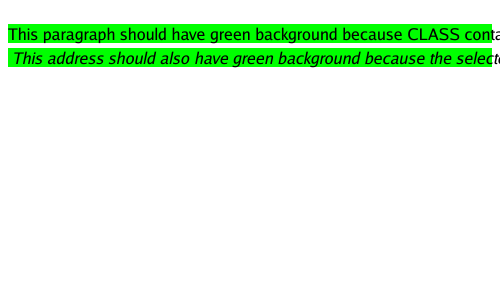
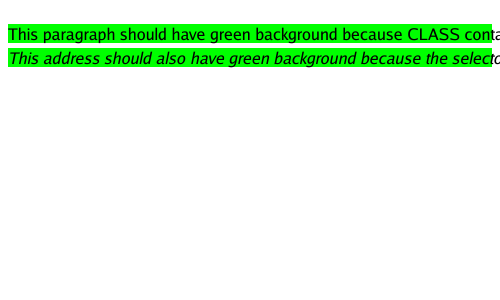
Add css3-modsel-9
1. This fixes a bug in text rendering where newlines would cause spaces at the front of text blocks
2. Changes p handling, incomplete still but able to handle breaks inline and draw backgrounds for taller text
3. space between vertical components is likely insufficient still
4. height of drawn backgrounds is likely insufficient still

Changed region(s): [[0.0, 0.15, 1.0, 0.24]]

diff --git a/html.go b/html.go
@@ -328,15 +328,35 @@ func drawNode(node *ParsedNode, sp *render.Sprite, drawzone floatgeom.Rect2) (he
 			drawzone.Min = drawzone.Min.Add(floatgeom.Point2{float64(bds.Dx()), 0})
 		}
 	case "p":
-		if node.FirstChild != nil {
-			text := node.FirstChild.Raw.Data
-			rText, textSize, bds := formatTextAsSprite(node, drawzone, 16.0, text)
-			textVBuffer := textSize / 5 // todo: where is this from?
-			// todo: is this the background of p or the background of the text content child?
-			drawBackground(node, sp, drawzone, textSize+textVBuffer, math.MaxFloat64)
-			draw.Draw(sp.GetRGBA(), bds, rText.GetRGBA(), image.Point{}, draw.Over)
-			drawzone.Min = drawzone.Min.Add(floatgeom.Point2{0, textVBuffer + float64(bds.Dy())})
+		nextChild := node.FirstChild
+		texts := []string{""}
+		textIndex := 0
+		for nextChild != nil {
+			switch nextChild.Raw.Type {
+			case html.TextNode:
+				text := nextChild.Raw.Data
+				texts[textIndex] += text
+			default:
+				if nextChild.Tag == "br" {
+					textIndex++
+					texts = append(texts, "")
+				}
+			}
+			nextChild = nextChild.NextSibling
 		}
+		var textVBuffer float64
+		for i, text := range texts {
+			rText, textSize, bds := formatTextAsSprite(node, drawzone, 16.0, text)
+			textVBuffer = textSize / 5 // todo: where is this from?
+			// todo: is this the background of p or the background of the text content child?
+			if i == 0 {
+				drawBackground(node, sp, drawzone, (textSize+textVBuffer)*float64(len(texts)), math.MaxFloat64)
+			}
+			draw.Draw(sp.GetRGBA(), bds, rText.GetRGBA(), image.Point{}, draw.Over)
+			drawzone.Min = drawzone.Min.Add(floatgeom.Point2{0, float64(bds.Dy())})
+		}
+		drawzone.Min = drawzone.Min.Add(floatgeom.Point2{0, textVBuffer})
+
 	case "img":
 		for _, atr := range node.Raw.Attr {
 			if atr.Key == "src" {
@@ -513,7 +533,7 @@ func formatTextAsSprite(node *ParsedNode, drawzone floatgeom.Rect2, textSizeDefa
 	newTxt := strings.Builder{}
 	foundNewline := false
 	var lastRn rune
-	for _, rn := range inText {
+	for i, rn := range inText {
 		// trim all whitespace following newlines
 		if foundNewline && (rn == ' ' || rn == '\t' || rn == '\r') {
 			continue
@@ -521,7 +541,7 @@ func formatTextAsSprite(node *ParsedNode, drawzone floatgeom.Rect2, textSizeDefa
 		foundNewline = false
 		if rn == '\n' {
 			// newlines become spaces iff a space is not already present before them
-			if lastRn != ' ' {
+			if lastRn != ' ' && i != 0 {
 				newTxt.WriteRune(' ')
 			}
 			foundNewline = true

diff --git a/README.md b/README.md
@@ -13,7 +13,7 @@ As of January 2023, HCJ has semi-functional HTML and CSS, and no JS capabilities
 | JS Parsing         | 0% complete                          |
 | HTML/CSS Rendering | ~10% complete                        |
 | JS Rendering       | 0% complete                          |
-| Tests Passing      | 45                                   |
+| Tests Passing      | 46                                   |
 | Test Count         | 228                                  |
 
 ## Philosophy
